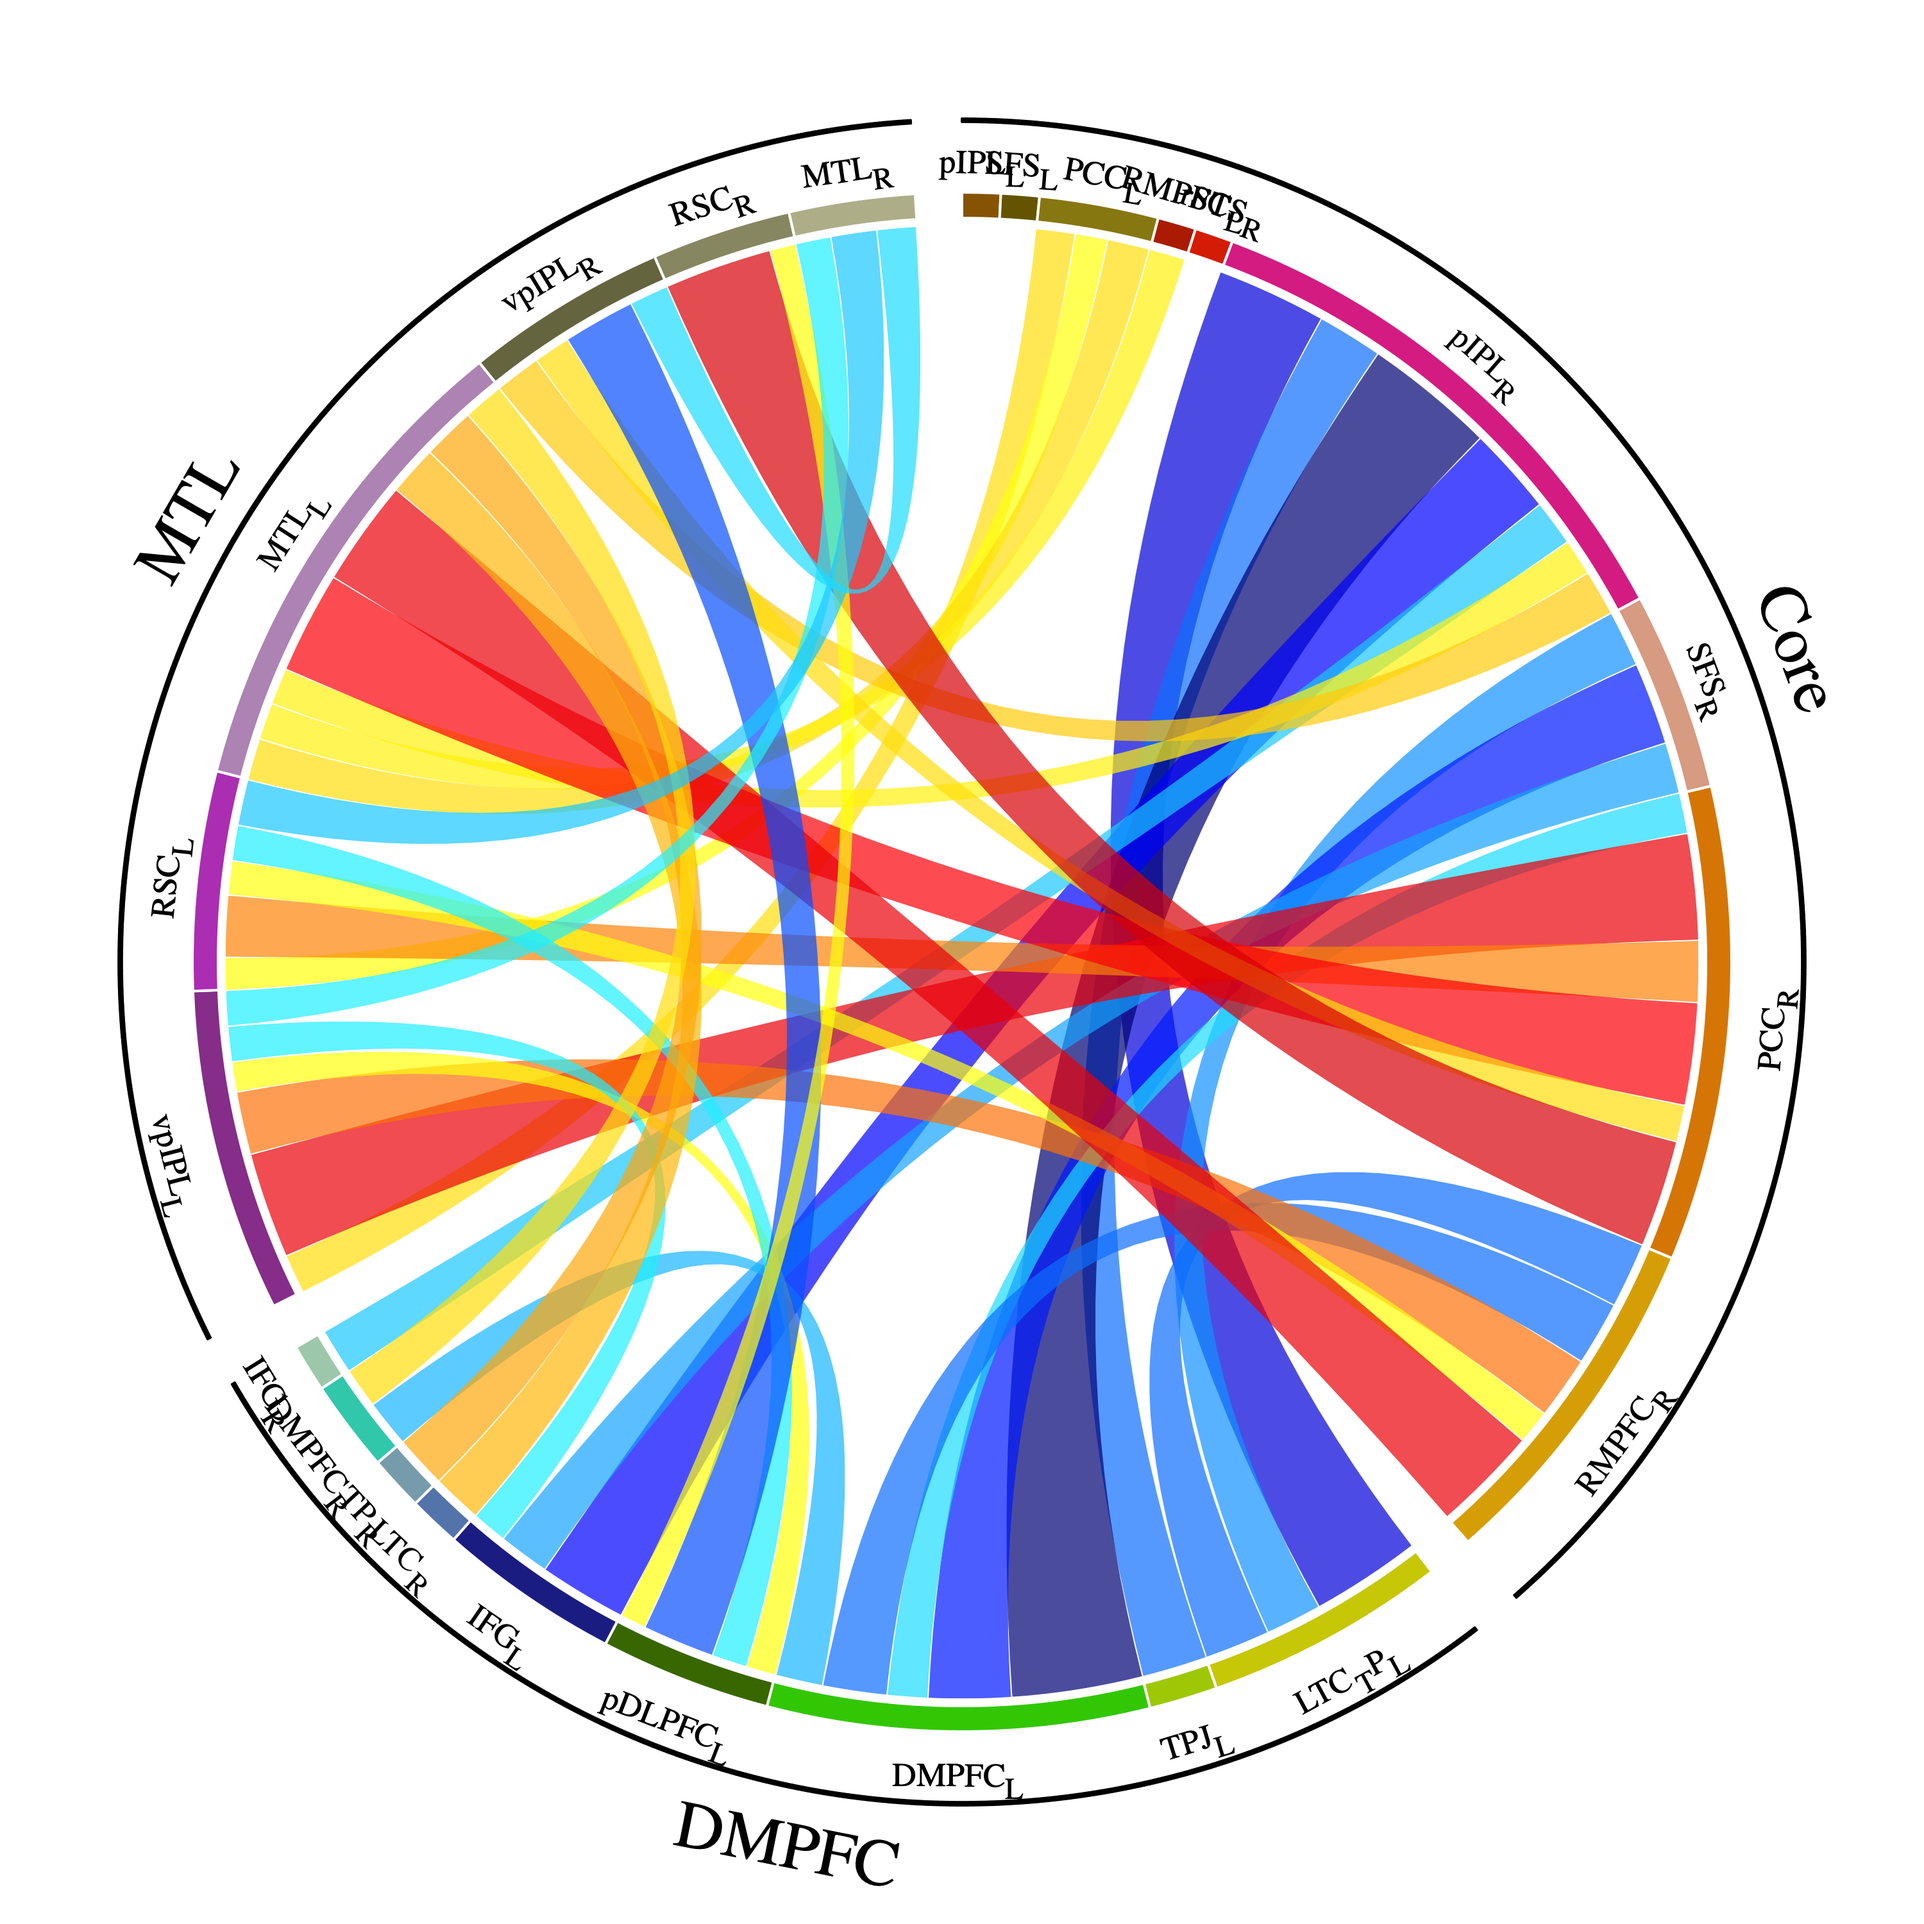
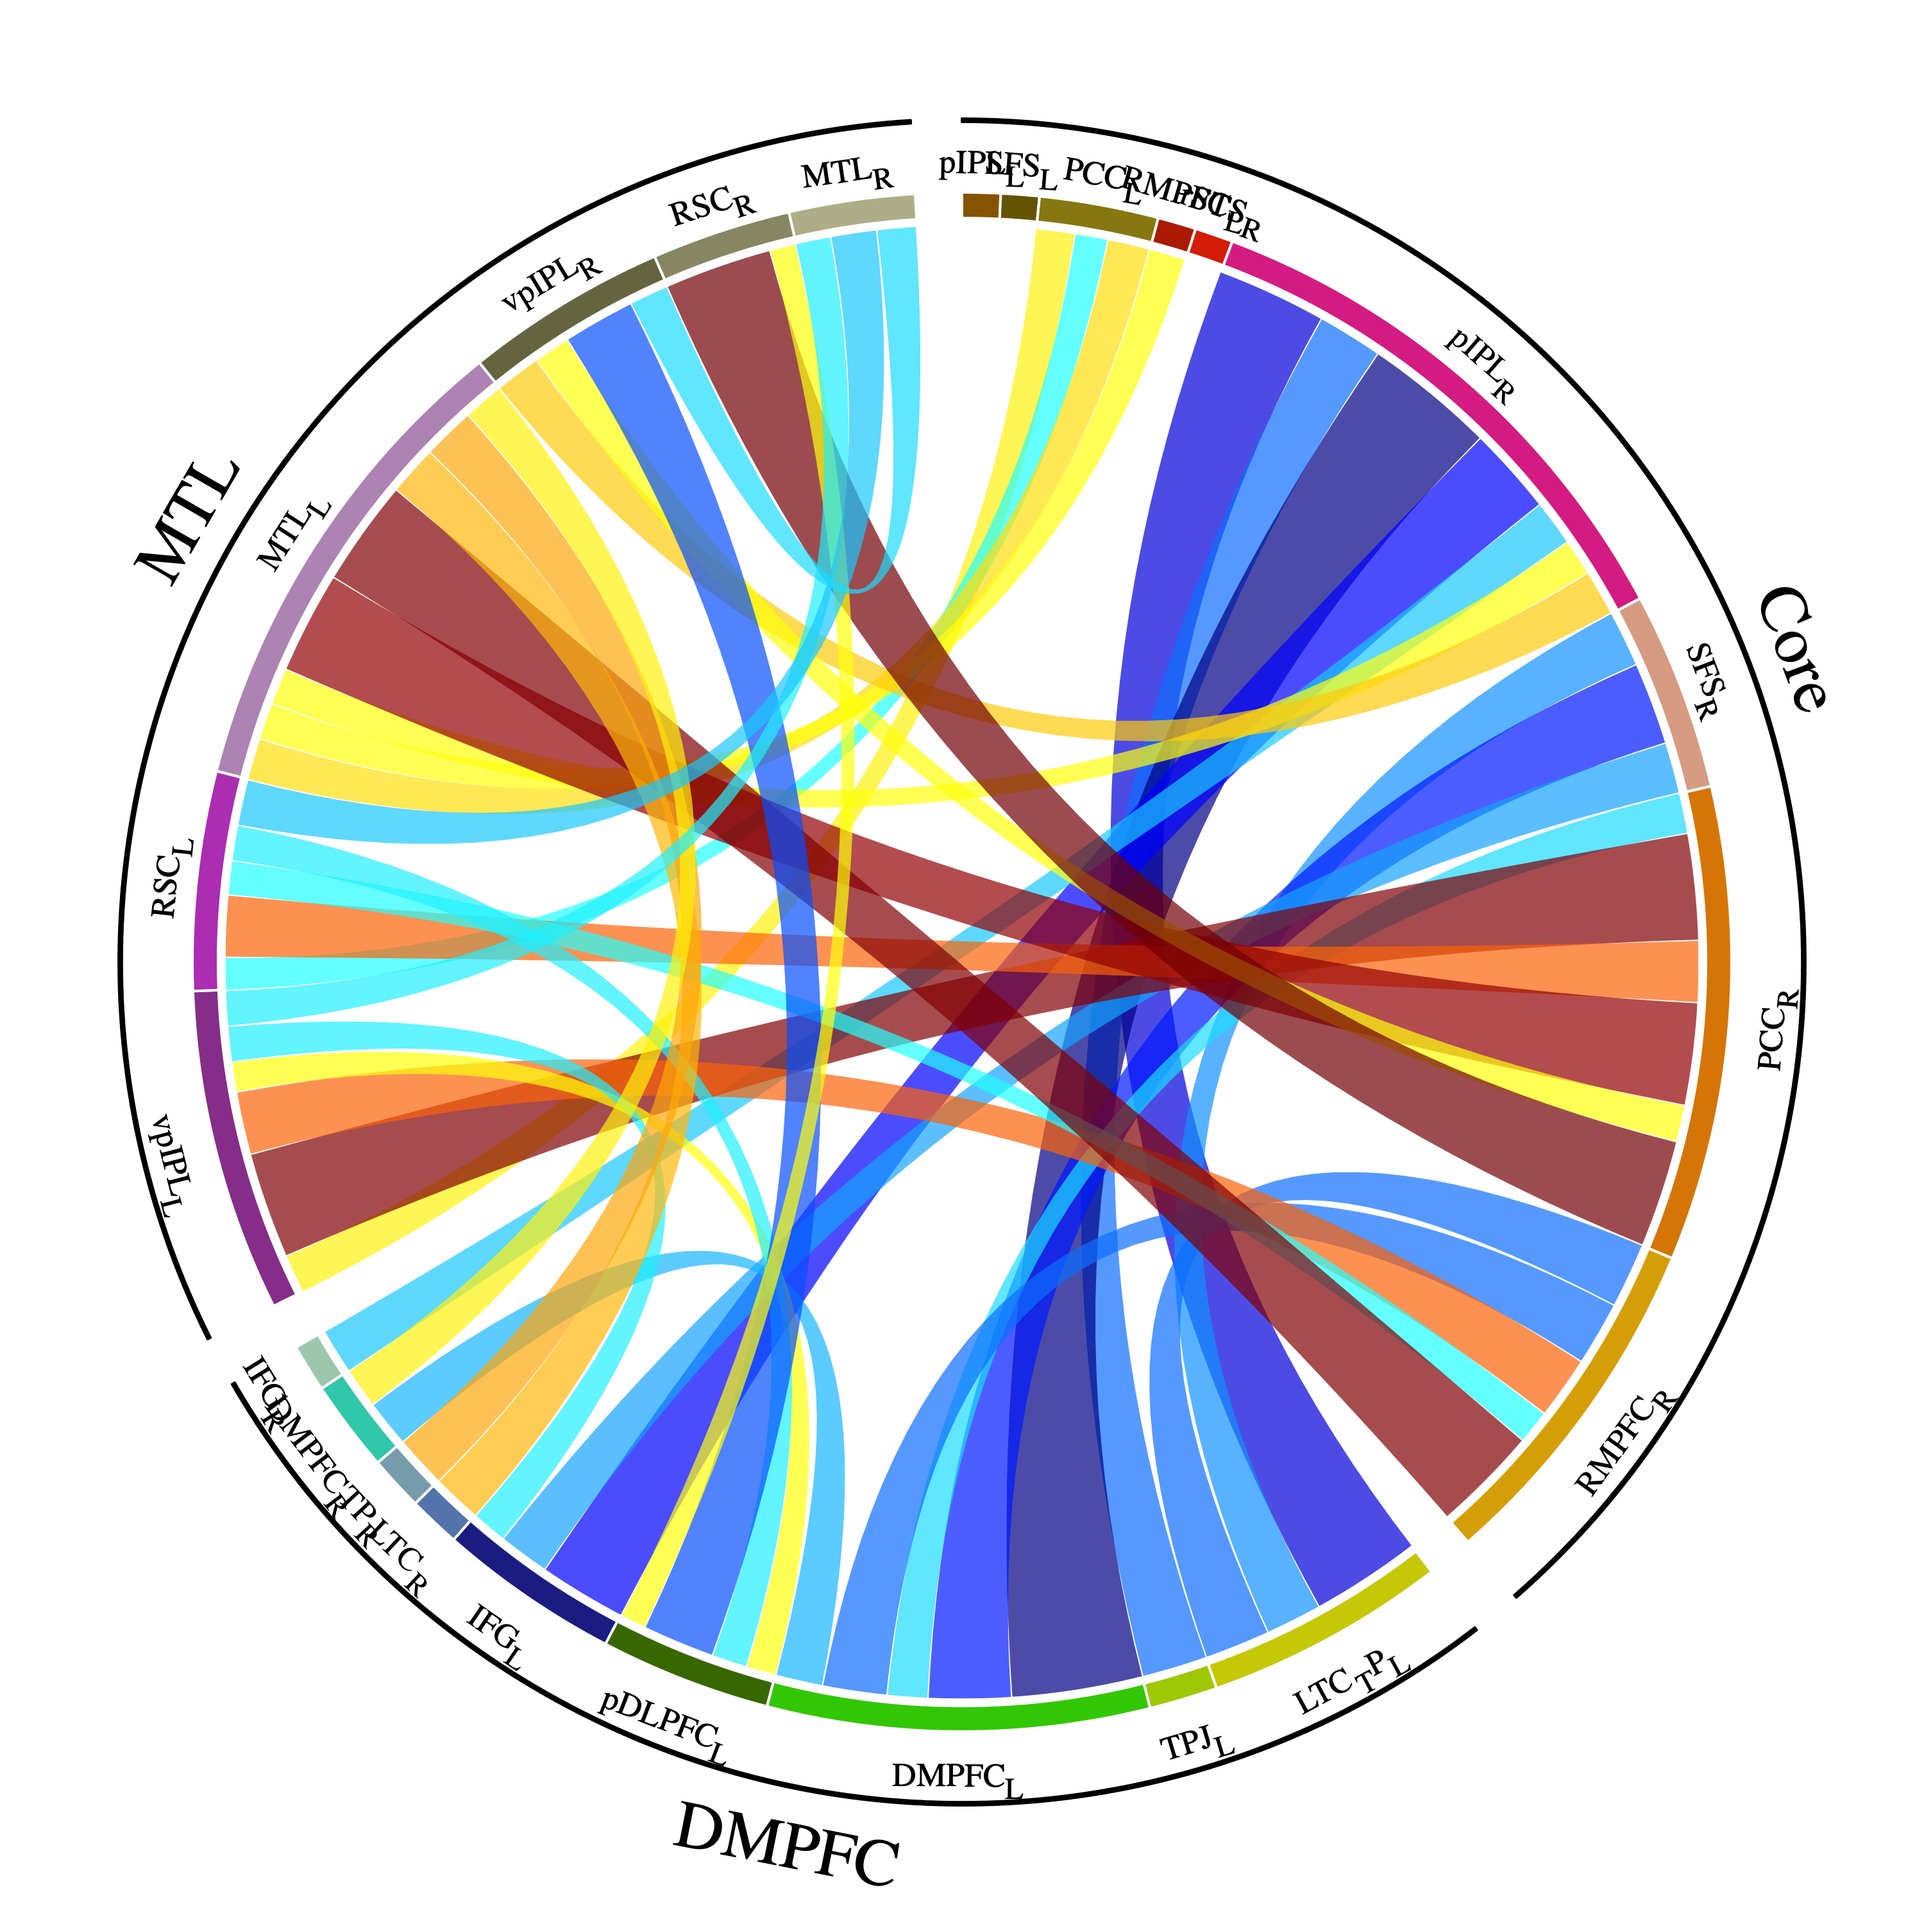
update color strategy
reset variable names

Changed region(s): [[0.093, 0.124, 0.899, 0.806], [0.124, 0.558, 0.341, 0.651], [0.496, 0.124, 0.589, 0.31]]

diff --git a/CircosDataOrganize.m b/CircosDataOrganize.m
@@ -1,14 +1,28 @@
-function [fileFullPath1,fileFullPath2,fileFullPath3] = CircosDataOrganize(workingDir,RawDataCircos,LINK_MODE)
-% FORMAT [fileFullPath1,fileFullPath2,fileFullPath3] = CircosDataOrganize(workingDir,RawDataCircos,LINK_MODE)
+function [filePathBand,filePathLabel,filePathLink] = CircosDataOrganize(workingDir,RawDataCircos,LINK_MODE)
+% FORMAT [filePathBand,filePathLabel,filePathLink] = CircosDataOrganize(workingDir,RawDataCircos,LINK_MODE)
 % Data organization for Circos plot via the format of txt
+% ATTENTION: this program temporary support up to 24 regions
+%
 % Input:
 %   workingDir - working directory that generate scripts and Circos figure
 %   RawDataCircos - raw data according to format that manual defined
+%     (MUST HAVE):
+%       .HigherOrderNetworkIndex - identify networks of corresponding regions
+%       .ProcMatrix - processed matrix of magnitude of regions correlation
+%       .CmapLimit - consist of colormap limit 
+%     (NOT MUST HAVE):
+%       .ElementLabel - Identify regions' order and label
+%       .HigherOrderNetworkLabel - Identify networks' order and label
+%       .ColorMap - consist of customized color map in RGB
 %   LINK_MODE - select link mode: 
-%    1-even region and link width, 
-%    2-even region width, ratio link width, 
-%    3-even region width, ratio link width,
-%    4-even region wodth, absolute link width
+%     1-even region and link width, 
+%     2-even region width, ratio link width, 
+%     3-even region width, ratio link width,
+%     4-even region wodth, absolute link width
+% Output:
+%   filePathBand - 1st txt file contains band information
+%   filePathLabel - 2nd txt file contains label information
+%   filePathLink - 3rd txt file contains link information
 %__________________________________________________________________________
 % Written by DENG Zhao-Yu 210408 for DPARBI.
 % Institute of Psychology, Chinese Academy of Sciences
@@ -27,7 +41,7 @@ MAX_WIDTH = 1; MIN_WIDTH = 0.2; % normalize width parameter
 DEFAULT_SPACING = 100;
 
 % define the amount of networks and regions
-nRegion = length(RawDataCircos.procMatrix(:,1)); % number of regions
+nRegion = length(RawDataCircos.ProcMatrix(:,1)); % number of regions
 nNetwork = max(RawDataCircos.HigherOrderNetworkIndex); % number of networks
 % networks and regions
 tabTemp = tabulate(RawDataCircos.HigherOrderNetworkIndex);
@@ -51,11 +65,11 @@ end
 
 % generate correlation matrix for links, filter threshold
 % matCorr = RawDataCircos.P_Corrected < P_THRESHOLD; 
-[rowCorr,colCorr] = find(triu(RawDataCircos.procMatrix~=0)); % withdraw upper triangle matrix
+[rowCorr,colCorr] = find(triu(RawDataCircos.ProcMatrix~=0)); % withdraw upper triangle matrix
 nCorr = length(rowCorr); % number of correlation pairs
 arrPlot = zeros(length(rowCorr),1); % initialize array that store values that plots
 for k = 1:length(rowCorr)
-    arrPlot(k) = RawDataCircos.procMatrix(rowCorr(k),colCorr(k)); % store values in matrix
+    arrPlot(k) = RawDataCircos.ProcMatrix(rowCorr(k),colCorr(k)); % store values in matrix
 end
 maxabsArrPlot = max(abs(min(arrPlot)),abs(max(arrPlot)));
 arrCorRatio = roundn((arrPlot/maxabsArrPlot),COLORBAR_ROUNDN_SENS); % correlation normalization, sensitivity
@@ -75,27 +89,35 @@ end
 arrRegionWidthRatio = sum(matLinkWidthRatio,2); % calculate width of regions
 
 % load colormap file
-if isfield(RawDataCircos,'cmap')
-    cmap = RawDataCircos.cmap;
+if isfield(RawDataCircos,'ColorMap')
+    cmap = RawDataCircos.ColorMap;
 else
     load('cmap.mat','cmap');
 end
 nCmap = length(cmap);
-if isfield(RawDataCircos,'presetBoundry')
-    minArrPlot = RawDataCircos.presetBoundry(1);
-    maxArrPlot = RawDataCircos.presetBoundry(2);
+% set 4 matrix limit
+if isfield(RawDataCircos,'CmapLimit')
+    leftMinLimit = RawDataCircos.CmapLimit(1,1);
+    leftMaxLimit = RawDataCircos.CmapLimit(1,2);
+    rightMinLimit = RawDataCircos.CmapLimit(2,1);
+    rightMaxLimit = RawDataCircos.CmapLimit(2,2);
+else
+    leftMinLimit = min(arrPlot(arrPlot<0));
+    leftMaxLimit = max(arrPlot(arrPlot<0));
+    rightMinLimit = min(arrPlot(arrPlot>0));
+    rightMaxLimit = max(arrPlot(arrPlot>0));
 end
 % select the color of links in colormap
 matColor = zeros(nCorr,3); % initialize matrix that store color of links
 cmapArrCorr = zeros(nCorr,1);
 norArrCorRatio = zeros(nCorr,1);
 for k = 1:nCorr
-    if arrCorRatio(k) > 0
-        norArrCorRatio(k) = (arrPlot(k)-minArrPlot)/(maxArrPlot-minArrPlot);
+    if arrCorRatio(k) < 0
+        norArrCorRatio(k) = (arrPlot(k)-leftMaxLimit)/(leftMaxLimit-leftMinLimit);
+        cmapArrCorr(k) = fix(norArrCorRatio(k)*(nCmap/2))+(nCmap/2)+1;
+    elseif arrCorRatio(k) > 0
+        norArrCorRatio(k) = (arrPlot(k)-rightMinLimit)/(rightMaxLimit-rightMinLimit);
         cmapArrCorr(k) = fix(norArrCorRatio(k)*(nCmap/2))+(nCmap/2);
-    else
-        norArrCorRatio(k) = (arrPlot(k)+minArrPlot)/(maxArrPlot-minArrPlot);
-        cmapArrCorr(k) = (nCmap/2)+fix(norArrCorRatio(k)*(nCmap/2))+1;
     end
     matColor(k,:) = fix(cmap(cmapArrCorr(k),:)*255);
 end
@@ -113,8 +135,8 @@ end
 
 
 % write data of networks and regions
-fileFullPath1 = strcat(workingDir,'/','CircosInput1_band.txt');
-fid = fopen(fileFullPath1,'w');
+filePathBand = strcat(workingDir,'/','CircosInput1_band.txt');
+fid = fopen(filePathBand,'w');
 % describe external networks, FORMAT: chr - ID label start end attribute
 if LINK_MODE==1 || LINK_MODE==2
     % isometry band
@@ -178,8 +200,8 @@ end
 fclose(fid);
 
 % write data of band labels
-fileFullPath2 = strcat(workingDir,'/','CircosInput2_label.txt');
-fid = fopen(fileFullPath2,'w');
+filePathLabel = strcat(workingDir,'/','CircosInput2_label.txt');
+fid = fopen(filePathLabel,'w');
 % label karyotype band, FORMAT: ID start end label
 if LINK_MODE==1 || LINK_MODE==2 || LINK_MODE==4
     if LINK_MODE==4
@@ -208,8 +230,8 @@ end
 fclose(fid);
 
 % write data of links
-fileFullPath3 = strcat(workingDir,'/','CircosInput3_link.txt');
-fid = fopen(fileFullPath3,'w'); 
+filePathLink = strcat(workingDir,'/','CircosInput3_link.txt');
+fid = fopen(filePathLink,'w'); 
 % describe links, FORMAT: Chromosome1 Start1 End1 Chromosome2 Start2 End2 Attributes
 if LINK_MODE == 1 % even link width mode
     for k = 1:nCorr

diff --git a/EditConf.m b/EditConf.m
@@ -1,5 +1,5 @@
-function confFullPath = EditConf(workingDir,command)
-% FORMAT confFullPath = EditConf(workingDir,command)
+function filePathConf = EditConf(workingDir,command)
+% FORMAT filePathConf = EditConf(workingDir,command)
 % Set .conf configuration file, parameters
 % Input:
 %   working_dir - working directory that generate scripts and Circos figure
@@ -13,8 +13,8 @@ function confFullPath = EditConf(workingDir,command)
 % change working directory
 cd(workingDir);
 
-confFullPath = strcat(workingDir,'/CircosPlot.conf');
-fid = fopen(confFullPath,'w');
+filePathConf = strcat(workingDir,'/CircosPlot.conf');
+fid = fopen(filePathConf,'w');
 
 fprintf(fid,'karyotype = CircosInput1_band.txt \n');
 fprintf(fid,'dir   = . \n');

diff --git a/TEST_function.m b/TEST_function.m
@@ -14,17 +14,10 @@ else
 end
 
 % test function
-[fileFullPath1,fileFullPath2,fileFullPath3] = CircosDataOrganize(workingDir,RawDataCircos,LINK_MODE);
-confFullPath = EditConf(workingDir,command);
+[filePathBand,filePathLabel,filePathLink] = CircosDataOrganize(workingDir,RawDataCircos,LINK_MODE);
+filePathConf = EditConf(workingDir,command);
 
 
 % run Circos command, if need run Matlab in Terminal
 system('circos -conf CircosPlot.conf');
 
-%% codes organize new processed matrix
-% load('RawDataCircos.mat');
-% P_THRESHOLD = 0.005;
-% % generate new pattern Matrix
-% filMatCorr = RawDataCircos.Matrix;
-% filMatCorr(RawDataCircos.P_Corrected > P_THRESHOLD) = 0;
-% RawDataCircos.prosMatrix = filMatCorr;

diff --git a/README.md b/README.md
@@ -1,7 +1,7 @@
 # CorticalNetworkCircos
  Circos plot describes cortical networks and regions
 
-![DemoCircos](./circos_4mode.png)
+![DemoCircos](./CircosDemoOutput/circos_4mode.png)
 
 ![colormap_jet](https://ww2.mathworks.cn/help/releases/R2020a/matlab/ref/colormap_jet_zh_CN.png)
 
